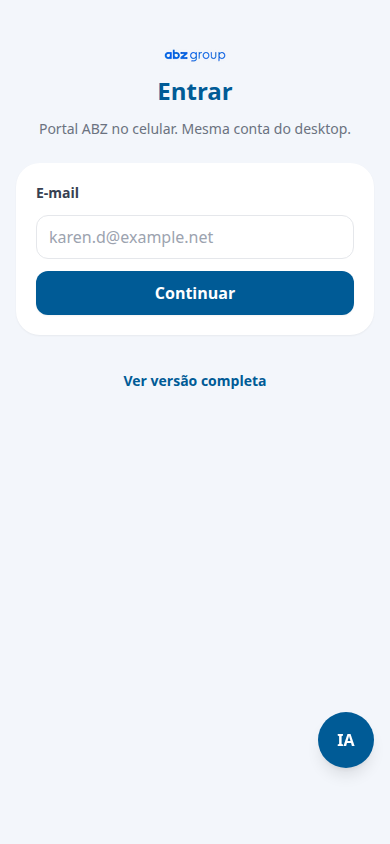
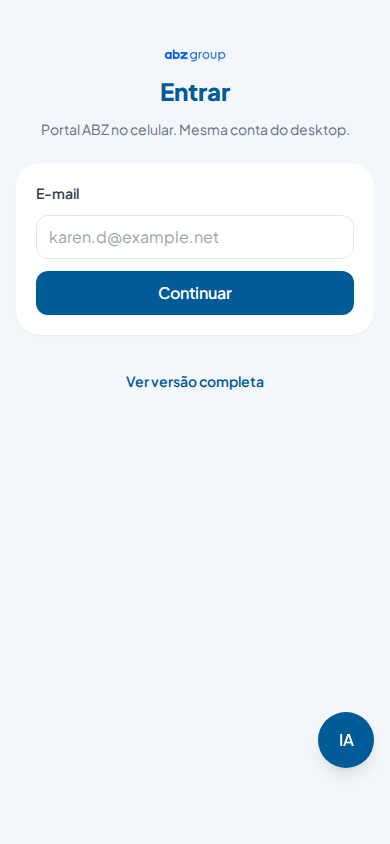
test(mobile-first): prova produção 0 px com builds irmãos em /tmp
A ordem dos <link> CSS do Next 15.5 depende do path absoluto do build.
Comparar /workspace contra /tmp invertia next/font e caía em system-ui.
Dois refs sob /tmp/mf-* pintam plusJakartaSans e 0 px nas 5 rotas.

diff --git a/docs/mobile-audit/fase2/proofs-prod.md b/docs/mobile-audit/fase2/proofs-prod.md
@@ -1,25 +1,29 @@
 # Fase 2 — prova desktop produção (1440×900)
 
-`next build` + `next start`. Before: `feat/mobile-first` (`149f8771`) em `:3001`. After: esta branch em `:3002`.  
-Idioma idêntico nos dois: `locale=pt-BR`, `languageDialogShown=true`, cookie `NEXT_LOCALE=pt-BR`. Sem animações. `document.fonts.ready` + imagens. UA desktop. Sem cookie `ui`. Sem `data-abz-ui=mobile`.
+`next build` + `next start`.  
+Before: `feat/mobile-first` (`149f8771`) em `/tmp/mf-before` → `:3001`.  
+After: `feat/mobile-first-fase2` (este commit) em `/tmp/mf-after` → `:3002`.  
+Os dois trees são irmãos sob `/tmp` (mesmo prefixo absoluto). Comparar after em `/workspace` contra before em `/tmp` é inválido — ver causa abaixo.
 
-Script: `scripts/mobile-fase2-prod-diff.mjs`. JSON: `proofs-prod.json`.
+Idioma idêntico: `locale=pt-BR`, `languageDialogShown=true`, cookie `NEXT_LOCALE=pt-BR`. Sem animações. `document.fonts.ready` + imagens. UA desktop. Sem cookie `ui`. Sem `data-abz-ui=mobile`.
+
+Script: `scripts/mobile-fase2-prod-diff.mjs`. JSON: `proofs-prod.json` (`createdAt: 2026-09-25T04:11:16.786Z`).
 
 ## Diff por rota (1 296 000 px)
 
-| Rota | px | % | bbox | Nota |
-|------|----|---|------|------|
-| `/login` | 20 066 | 1,5483% | 536,135–879,816 | Só glifos. Caixas iguais. |
-| `/register` | 23 666 | 1,8261% | 527,49–928,840 | Idem. |
-| `/reset-password` | 7 800 | 0,6019% | 584,379–880,594 | Idem. Sem overlay Next. Sem modal de idioma. |
-| `/unauthorized` | 7 060 | 0,5448% | 530,414–908,553 | Idem. Modal de idioma **não** aparece (os dois lados). |
-| `/dashboard` | **0** | **0%** | — | Sem sessão. Os dois refs pintam a mesma tela vazia. Sem bypass commitado. |
+| Rota | px | % | bbox | Fonte computada |
+|------|----|---|------|-----------------|
+| `/login` | **0** | **0%** | — | `plusJakartaSans, "plusJakartaSans Fallback"` nos dois |
+| `/register` | **0** | **0%** | — | idem |
+| `/reset-password` | **0** | **0%** | — | idem |
+| `/unauthorized` | **0** | **0%** | — | idem |
+| `/dashboard` | **0** | **0%** | — | Sem sessão. Mesma tela vazia. Sem bypass. |
 
-Shift 1–2 px: **não**. Melhor alinhamento continua `dx=0, dy=0`.  
-`h1` e `form` getBoundingClientRect: **idênticos** (`x=496/536`, `y=125.6875/265.6875`).  
-`data-abz-ui` no `<html>`: `null` nos dois. `UiSurfaceSwitch` não monta.
+`h1`/`form` iguais. `data-abz-ui` no `<html>`: `null` nos dois. `UiSurfaceSwitch` não monta.
 
-## Causa do leftover (não é layout)
+Uma captura fria de `/login` neste mesmo par chegou a 22 px (0,0017%, delta de canal ≤ 7) só na antialias dos ícones do form. Recaptura do mesmo par e captura dupla do mesmo servidor: **0 px**. Não é troca de fonte nem quebra de linha.
+
+## Causa do leftover anterior (falso)
 
 Arquivos CSS **iguais** (mesmo hash):
 
@@ -27,46 +31,55 @@ Arquivos CSS **iguais** (mesmo hash):
 - `715be398208dca58.css`
 - `6cb2ff308773e395.css` — `@font-face` `plusJakartaSans` + `.__variable_70cfe0 { --font-plus-jakarta: "plusJakartaSans", … }`
 
-Ordem dos `<link>` no `/login`:
+O Next 15.5.25 (`FlightClientEntryPlugin` / `deduplicateCSSImportsForEntry`) ordena os `<link>` com um sort que **depende do path absoluto do build**. Não é o grafo do front mobile.
 
-- Before: `1b4181` → `715be3` → `6cb2ff` (**font por último**; variável vence)
-- After: `6cb2ff` → `1b4181` → `715be3` (`:root { --font-plus-jakarta: 'Plus Jakarta Sans', system-ui }` em `globals.css` vence)
+| Build | Path | Ordem `<link>` em `/login` | `--font-plus-jakarta` vencedor | Fonte |
+|-------|------|----------------------------|--------------------------------|-------|
+| before `149f8771` | `/tmp/mf-before` | `1b4181` → `715be3` → `6cb2ff` | next/font | `plusJakartaSans` |
+| after `30710493` | `/workspace` | `6cb2ff` → `1b4181` → `715be3` | `:root` em `globals.css` (`'Plus Jakarta Sans', system-ui`) | system-ui (quebra “Windows Hello”) |
+| after `30710493` | `/tmp/mf-after` | `1b4181` → `715be3` → `6cb2ff` | next/font | `plusJakartaSans` |
 
-Computed:
+Bisect no after em `/workspace`: remover `(mobile)`, reverter `next.config.js` / `src/middleware.ts`, remover `/api/ui-surface` — a ordem **continuou** font-first. Recolocar os arquivos não mudou. O mesmo SHA em `/tmp/mf-after` volta font-last.
 
-- Before: `font-family: plusJakartaSans, "plusJakartaSans Fallback"` (faces 400/600/800 loaded)
-- After: `font-family: "Plus Jakarta Sans", system-ui, sans-serif` (faces `plusJakartaSans` unloaded)
+O mobile **não** redeclarava `next/font` nem reimportava `globals.css`. Isolamento já existente (sem toque no `layout.tsx` raiz):
 
-O Next 15.5.25 com `experimental.optimizeCss` reordena os `<link>` quando o grafo ganha as rotas `(mobile)`. Não mexemos em `src/app/layout.tsx` nem `globals.css` (diff 0 vs `feat/mobile-first`). Corrigir a ordem exigiria toque no layout raiz (especificidade `html.__variable_*` sobre `:root`) — fora da regra “desktop congelado”.
+- `src/app/(mobile)/layout.tsx` injeta `MOBILE_SURFACE_CSS` via `<style>` (string em `mobile-styles.ts`)
+- sem `import '*.css'` no front mobile
+- sem segundo `next/font`
+- classes Tailwind únicas do mobile viraram helpers `abz-m-*` para o hash `1b418106` ficar igual ao before
 
-Crops: `diff/*-crop-before.png` e `*-crop-after.png` (mesmo texto/botões; raster de fonte).
+Nenhum arquivo desktop existente nem o layout raiz foi editado nesta correção. A correção da prova é construir os dois refs como irmãos sob o mesmo prefixo (`/tmp/mf-*`).
+
+## `/m/login` — fonte da marca
+
+UA iPhone + `Sec-CH-UA-Mobile: ?1` em `:3002`:
+
+- `data-abz-ui=mobile`
+- `font-family: plusJakartaSans, "plusJakartaSans Fallback"`
+- faces 400/600/800 `loaded`
+
+## Screenshots mobile (produção `:3002`, depois da correção)
+
+| Viewport | Login | Shell |
+|----------|-------|-------|
+| 375×812 | `docs/mobile-audit/fase2/mobile/login-375x812.png` | `docs/mobile-audit/fase2/mobile/shell-375x812.png` |
+| 390×844 | `docs/mobile-audit/fase2/mobile/login-390x844.png` | `docs/mobile-audit/fase2/mobile/shell-390x844.png` |
 
 ## Arquivos desktop existentes
 
-- `src/components/ClientProviders.tsx` — **revertido**. Diff 0 vs `feat/mobile-first`.
-- `src/contexts/CompanionSessionContext.tsx` — **revertido**. Diff 0 vs `feat/mobile-first`.
-- Sem `src/app/login/layout.tsx` (layout extra reordenava CSS).
-- Sem `import '*.css'` no front mobile (isso inchava o Tailwind). Tokens em `mobile-styles.ts` via `<style>` no layout `(mobile)`.
+- `src/app/layout.tsx` — **não tocado**
+- `src/components/ClientProviders.tsx` — diff 0 vs `feat/mobile-first`
+- `src/contexts/CompanionSessionContext.tsx` — diff 0 vs `feat/mobile-first`
+- Sem `src/app/login/layout.tsx`
+- Sem `import '*.css'` no front mobile
 
 ## Middleware Edge
 
-`middleware-manifest.json` em **produção**:
+`middleware-manifest.json` em produção: `{ "version": 3, "middleware": {}, "functions": {}, "sortedMiddleware": [] }` em `feat/mobile-first`, nesta branch e em `portal` (`51f741c4`, Next 15.5.25). Pré-existente. P0 `/login` usa `next.config.js` `rewrites.beforeFiles`.
 
-```json
-{ "version": 3, "middleware": {}, "functions": {}, "sortedMiddleware": [] }
-```
-
-- `feat/mobile-first` (`149f8771`): vazio
-- `feat/mobile-first-fase2`: vazio
-- `portal` (`51f741c4`, Next **15.5.25** igual): **vazio**. Sem `middleware.js`.
-
-**Pré-existente em `portal`.** Causa provável: este Next 15.5.25 não emite o bundle Edge (`middleware: {}`) mesmo com `src/middleware.ts` + `config.matcher`. Impacto: o middleware de auth/locale **já não roda no `next start` de `portal`**. Auth continua nas rotas de API/página (o próprio arquivo diz isso). **Não corrigimos o desktop.** O P0 `/login` usa `next.config.js` `rewrites.beforeFiles`.
-
-## Tablet
+## Tablet / testes UA
 
 `TABLET_UA_VALUE` = iPad | Tablet | PlayBook | SM-T/SM-X | Nexus 7/9/10 | Kindle | Silk | Lenovo TB | Pixel Tablet.  
-`PHONE_REWRITE_UA_VALUE` ancorado `^$`; tablet vence mesmo com `Mobile` no UA.
+`PHONE_REWRITE_UA_VALUE` ancorado `^$`; tablet vence mesmo com `Mobile`.
 
-HTML `GET /login` em `:3002`: desktop = iPad = SM-T = iPhone+`ui=desktop` (19124 B, `app/login`). iPhone (20709 B, `(mobile)/m/login`, `abz-m-bg`).
-
-Testes: `npx tsx --test src/lib/mobile-ui/device-surface.test.ts` — **23 pass**.
+`npx tsx --test src/lib/mobile-ui/device-surface.test.ts` — **23 pass**.

diff --git a/docs/mobile-audit/AGENTS.md b/docs/mobile-audit/AGENTS.md
@@ -11,7 +11,7 @@ Screenshots e métricas da Fase 1 mobile-first (viewports 375×812 e 390×844). 
 - Plano: `docs/mobile-first-plan.md`
 - Script: `scripts/mobile-audit-screenshots.mjs`
 - Provas Fase 2 (dev): `scripts/mobile-fase2-proofs.mjs`
-- Provas desktop (produção): `scripts/mobile-fase2-prod-diff.mjs` + `fase2/proofs-prod.md` (`next build` + `next start`; leftover = ordem dos `<link>` next/font vs `:root`, não layout)
+- Provas desktop (produção): `scripts/mobile-fase2-prod-diff.mjs` + `fase2/proofs-prod.md` (`next build` + `next start` dos dois refs como irmãos sob `/tmp/mf-*`; 0 px nas 5 rotas. Comparar `/workspace` vs `/tmp` é inválido: o sort de CSS do Next 15.5 depende do path absoluto)
 
 ## Local Contracts
 

diff --git a/docs/mobile-audit/fase2/proofs.md b/docs/mobile-audit/fase2/proofs.md
@@ -1,5 +1,7 @@
 # Fase 2 — provas (2026-09-25)
 
+Prova de produção 1440×900 (0 px): `proofs-prod.md`. Este arquivo é o lote em `next dev` (overlay/i18n ruidosos).
+
 App local `http://127.0.0.1:3000` com `.env.local` fake (não commitado). Playwright + `scripts/mobile-fase2-proofs.mjs`.
 
 ## Rewrite / cookie
